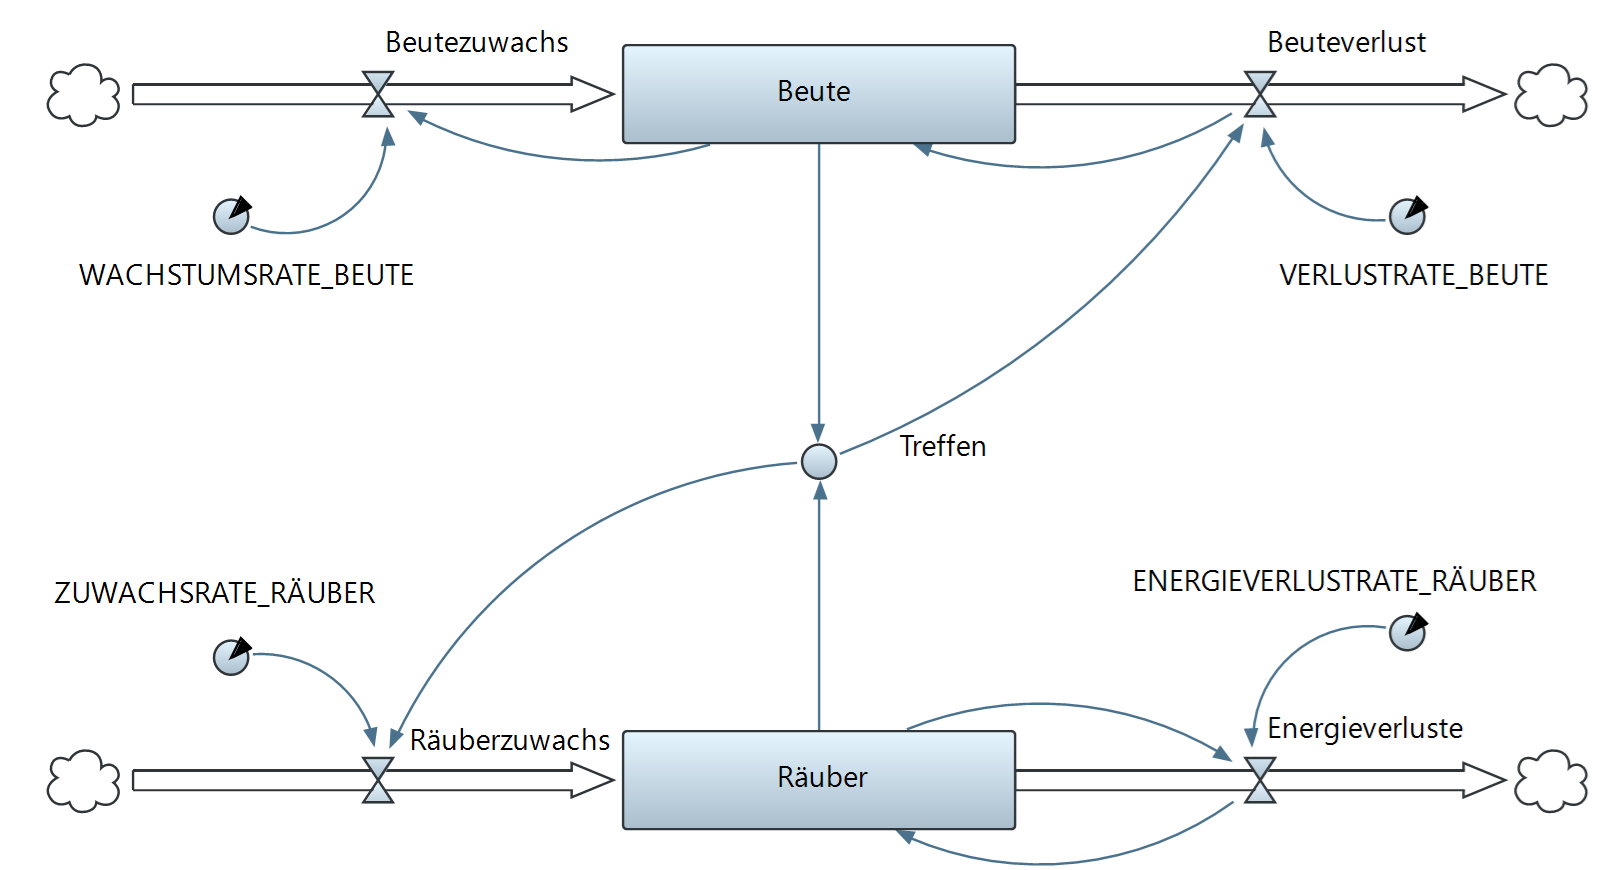
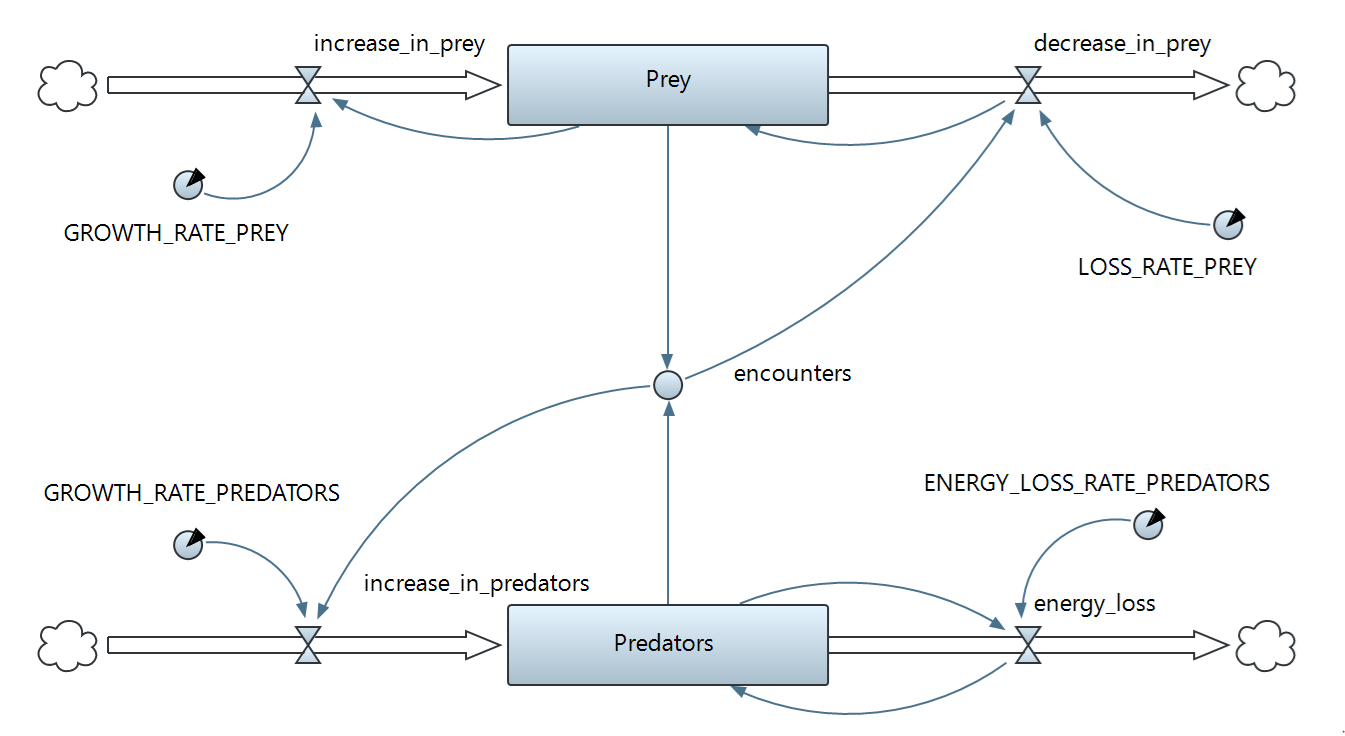
add lotka-volterra example in english

diff --git a/examples/lotka-volterra.py b/examples/lotka-volterra.py
@@ -20,45 +20,45 @@ number_of_simulation_steps = 200
 lv_system = System("lotka-volterra")
 
 # create elements
-raeuber = Stock("Räuber", 40, lv_system)
-beute = Stock("Beute", 500, lv_system)
+predators = Stock("Predators", 40, lv_system)
+prey = Stock("Prey", 500, lv_system)
 
-WACHSTUMSRATE_BEUTE = Parameter("WACHSTUMSRATE_BEUTE", 0.05, lv_system)
-VERLUSTRATE_BEUTE = Parameter("VERLUSTRATE_BEUTE", 0.001, lv_system)
-ZUWACHSRATE_RAEUBER = Parameter("ZUWACHSRATE_RÄUBER", 0.0002, lv_system)
-ENERGIEVERLUSTRATE_RAEUBER = Parameter("ENERGIEVERLUSTRATE_RÄUBER", 0.1, lv_system)
+GROWTH_RATE_PREY = Parameter("GROWTH_RATE_PREY", 0.05, lv_system)
+LOSS_RATE_PREY = Parameter("LOSS_RATE_PREY", 0.001, lv_system)
+GROWTH_RATE_PREDATORS = Parameter("GROWTH_RATE_PREDATORS", 0.0002, lv_system)
+ENERGY_LOSS_RATE_PREDATORS = Parameter("ENERGY_LOSS_RATE_PREDATORS", 0.1, lv_system)
 
-beutezuwachs = Flow("Beutezuwachs", lv_system)
-beuteverlust = Flow("Beuteverlust", lv_system)
-raeuberzuwachs = Flow("Räuberzuwachs", lv_system)
-energieverluste = Flow("Energieverluste", lv_system)
+increase_in_prey = Flow("increase_in_prey", lv_system)
+decrease_in_prey = Flow("decrease_in_prey", lv_system)
+increase_in_predators = Flow("increase_in_predators", lv_system)
+energy_loss = Flow("energy_loss", lv_system)
 
-treffen = DynamicVariable("Treffen", lv_system)
+encounters = DynamicVariable("encounters", lv_system)
 
 # link elements
-raeuber.input_elements.extend([raeuberzuwachs, energieverluste])
+predators.input_elements.extend([increase_in_predators, energy_loss])
 
-raeuberzuwachs.input_elements.extend([ZUWACHSRATE_RAEUBER, treffen])
-energieverluste.input_elements.extend([ENERGIEVERLUSTRATE_RAEUBER, raeuber])
+increase_in_predators.input_elements.extend([GROWTH_RATE_PREDATORS, encounters])
+energy_loss.input_elements.extend([ENERGY_LOSS_RATE_PREDATORS, predators])
 
-treffen.input_elements.extend([beute, raeuber])
+encounters.input_elements.extend([prey, predators])
 
-beute.input_elements.extend([beutezuwachs, beuteverlust])
+prey.input_elements.extend([increase_in_prey, decrease_in_prey])
 
-beutezuwachs.input_elements.extend([beute, WACHSTUMSRATE_BEUTE])
+increase_in_prey.input_elements.extend([prey, GROWTH_RATE_PREY])
 
-beuteverlust.input_elements.extend([treffen, VERLUSTRATE_BEUTE])
+decrease_in_prey.input_elements.extend([encounters, LOSS_RATE_PREY])
 
 # set calculation rules
-raeuber.calc_rule = "Räuberzuwachs - Energieverluste"
-raeuberzuwachs.calc_rule = "Treffen * ZUWACHSRATE_RÄUBER"
-energieverluste.calc_rule = "ENERGIEVERLUSTRATE_RÄUBER * Räuber"
+predators.calc_rule = "increase_in_predators - energy_loss"
+increase_in_predators.calc_rule = "encounters * GROWTH_RATE_PREDATORS"
+energy_loss.calc_rule = "ENERGY_LOSS_RATE_PREDATORS * Predators"
 
-treffen.calc_rule = "Beute * Räuber"
+encounters.calc_rule = "Prey * Predators"
 
-beute.calc_rule = "Beutezuwachs - Beuteverlust"
-beutezuwachs.calc_rule = "WACHSTUMSRATE_BEUTE * Beute"
-beuteverlust.calc_rule = "VERLUSTRATE_BEUTE * Treffen"
+prey.calc_rule = "increase_in_prey - decrease_in_prey"
+increase_in_prey.calc_rule = "GROWTH_RATE_PREY * Prey"
+decrease_in_prey.calc_rule = "LOSS_RATE_PREY * encounters"
 
 # run simulation
 s1 = Simulator(number_of_simulation_steps, "weeks")
@@ -71,19 +71,19 @@ sim_results = s1.get_simulation_results()
 # export results to various formats
 # make sure the subfolder "results" exists or change the relative path
 Exporter.export_data(results=sim_results, file_format="csv", \
-    system_elements=["Räuber", "Beute"], rel_path="./results/lotka-volterra-results.csv")
+    system_elements=["Predators", "Prey"], rel_path="./results/lotka-volterra-results.csv")
 
 Exporter.export_data(results=sim_results, file_format="json", \
-    system_elements=["Räuber", "Beute"], rel_path=".\\results\\lotka-volterra-results.json")
+    system_elements=["Predators", "Prey"], rel_path=".\\results\\lotka-volterra-results.json")
 
 Exporter.export_graph(results=sim_results, file_format="jpg", \
-    system_elements=["Räuber", "Beute"], rel_path="results/lotka-volterra-results", \
-    title="Lotka-Volterra-Simulation", label_x="t[weeks]", label_y="Number of Animals",
+    system_elements=["Predators", "Prey"], rel_path="results/lotka-volterra-results", \
+    title="Lotka-Volterra simulation", label_x="t[weeks]", label_y="Number of Animals",
     range_x=[0,number_of_simulation_steps], range_y=[0,600], colors=["red", "blue"],
     line_width=2, legend_pos="upper right")
 
 Exporter.export_graph(results=sim_results, file_format="png", \
-    system_elements=["Beute", "Räuber"], rel_path="results\\lotka-volterra-results", \
-    title="Lotka-Volterra-Simulation", label_x="t[weeks]", label_y="Number of Animals",
+    system_elements=["Prey", "Predators"], rel_path="results\\lotka-volterra-results", \
+    title="Lotka-Volterra simulation", label_x="t[weeks]", label_y="Number of Animals",
     range_x=[0,number_of_simulation_steps], range_y=[0,600], colors=["green", "orange"],
     line_width=2, legend_pos="upper left")

diff --git a/examples/lotka-volterra_german.py b/examples/lotka-volterra_german.py
@@ -1,0 +1,89 @@
+import pprint
+
+from sysdynpy.system import *
+from sysdynpy.stock import *
+from sysdynpy.flow import *
+from sysdynpy.dynamicvariable import *
+from sysdynpy.parameter import *
+from sysdynpy.simulator import *
+from sysdynpy.exporter import *
+
+"""
+This example implements the Lotka-Volterra model.
+The corresponding simulation diagram can be found in the file
+"simulation-diagram-lotka-volterra_german.png".
+"""
+
+number_of_simulation_steps = 200
+
+# create system
+lv_system = System("lotka-volterra")
+
+# create elements
+raeuber = Stock("Räuber", 40, lv_system)
+beute = Stock("Beute", 500, lv_system)
+
+WACHSTUMSRATE_BEUTE = Parameter("WACHSTUMSRATE_BEUTE", 0.05, lv_system)
+VERLUSTRATE_BEUTE = Parameter("VERLUSTRATE_BEUTE", 0.001, lv_system)
+ZUWACHSRATE_RAEUBER = Parameter("ZUWACHSRATE_RÄUBER", 0.0002, lv_system)
+ENERGIEVERLUSTRATE_RAEUBER = Parameter("ENERGIEVERLUSTRATE_RÄUBER", 0.1, lv_system)
+
+beutezuwachs = Flow("Beutezuwachs", lv_system)
+beuteverlust = Flow("Beuteverlust", lv_system)
+raeuberzuwachs = Flow("Räuberzuwachs", lv_system)
+energieverluste = Flow("Energieverluste", lv_system)
+
+treffen = DynamicVariable("Treffen", lv_system)
+
+# link elements
+raeuber.input_elements.extend([raeuberzuwachs, energieverluste])
+
+raeuberzuwachs.input_elements.extend([ZUWACHSRATE_RAEUBER, treffen])
+energieverluste.input_elements.extend([ENERGIEVERLUSTRATE_RAEUBER, raeuber])
+
+treffen.input_elements.extend([beute, raeuber])
+
+beute.input_elements.extend([beutezuwachs, beuteverlust])
+
+beutezuwachs.input_elements.extend([beute, WACHSTUMSRATE_BEUTE])
+
+beuteverlust.input_elements.extend([treffen, VERLUSTRATE_BEUTE])
+
+# set calculation rules
+raeuber.calc_rule = "Räuberzuwachs - Energieverluste"
+raeuberzuwachs.calc_rule = "Treffen * ZUWACHSRATE_RÄUBER"
+energieverluste.calc_rule = "ENERGIEVERLUSTRATE_RÄUBER * Räuber"
+
+treffen.calc_rule = "Beute * Räuber"
+
+beute.calc_rule = "Beutezuwachs - Beuteverlust"
+beutezuwachs.calc_rule = "WACHSTUMSRATE_BEUTE * Beute"
+beuteverlust.calc_rule = "VERLUSTRATE_BEUTE * Treffen"
+
+# run simulation
+s1 = Simulator(number_of_simulation_steps, "weeks")
+s1.run_simulation(lv_system)
+# get_simulation_results() returns a dict
+# Key = Name of the system element, Value = List of numerical values
+sim_results = s1.get_simulation_results()
+# pprint.pprint(sim_results) # print formatted results to console
+
+# export results to various formats
+# make sure the subfolder "results" exists or change the relative path
+Exporter.export_data(results=sim_results, file_format="csv", \
+    system_elements=["Räuber", "Beute"], rel_path="./results/lotka-volterra-results.csv")
+
+Exporter.export_data(results=sim_results, file_format="json", \
+    system_elements=["Räuber", "Beute"], rel_path=".\\results\\lotka-volterra-results.json")
+
+Exporter.export_graph(results=sim_results, file_format="jpg", \
+    system_elements=["Räuber", "Beute"], rel_path="results/lotka-volterra-results", \
+    title="Lotka-Volterra-Simulation", label_x="t[weeks]", label_y="Number of Animals",
+    range_x=[0,number_of_simulation_steps], range_y=[0,600], colors=["red", "blue"],
+    line_width=2, legend_pos="upper right")
+
+Exporter.export_graph(results=sim_results, file_format="png", \
+    system_elements=["Beute", "Räuber"], rel_path="results\\lotka-volterra-results", \
+    title="Lotka-Volterra-Simulation", label_x="t[weeks]", label_y="Number of Animals",
+    range_x=[0,number_of_simulation_steps], range_y=[0,600], colors=["green", "orange"],
+    line_width=2, legend_pos="upper left")
